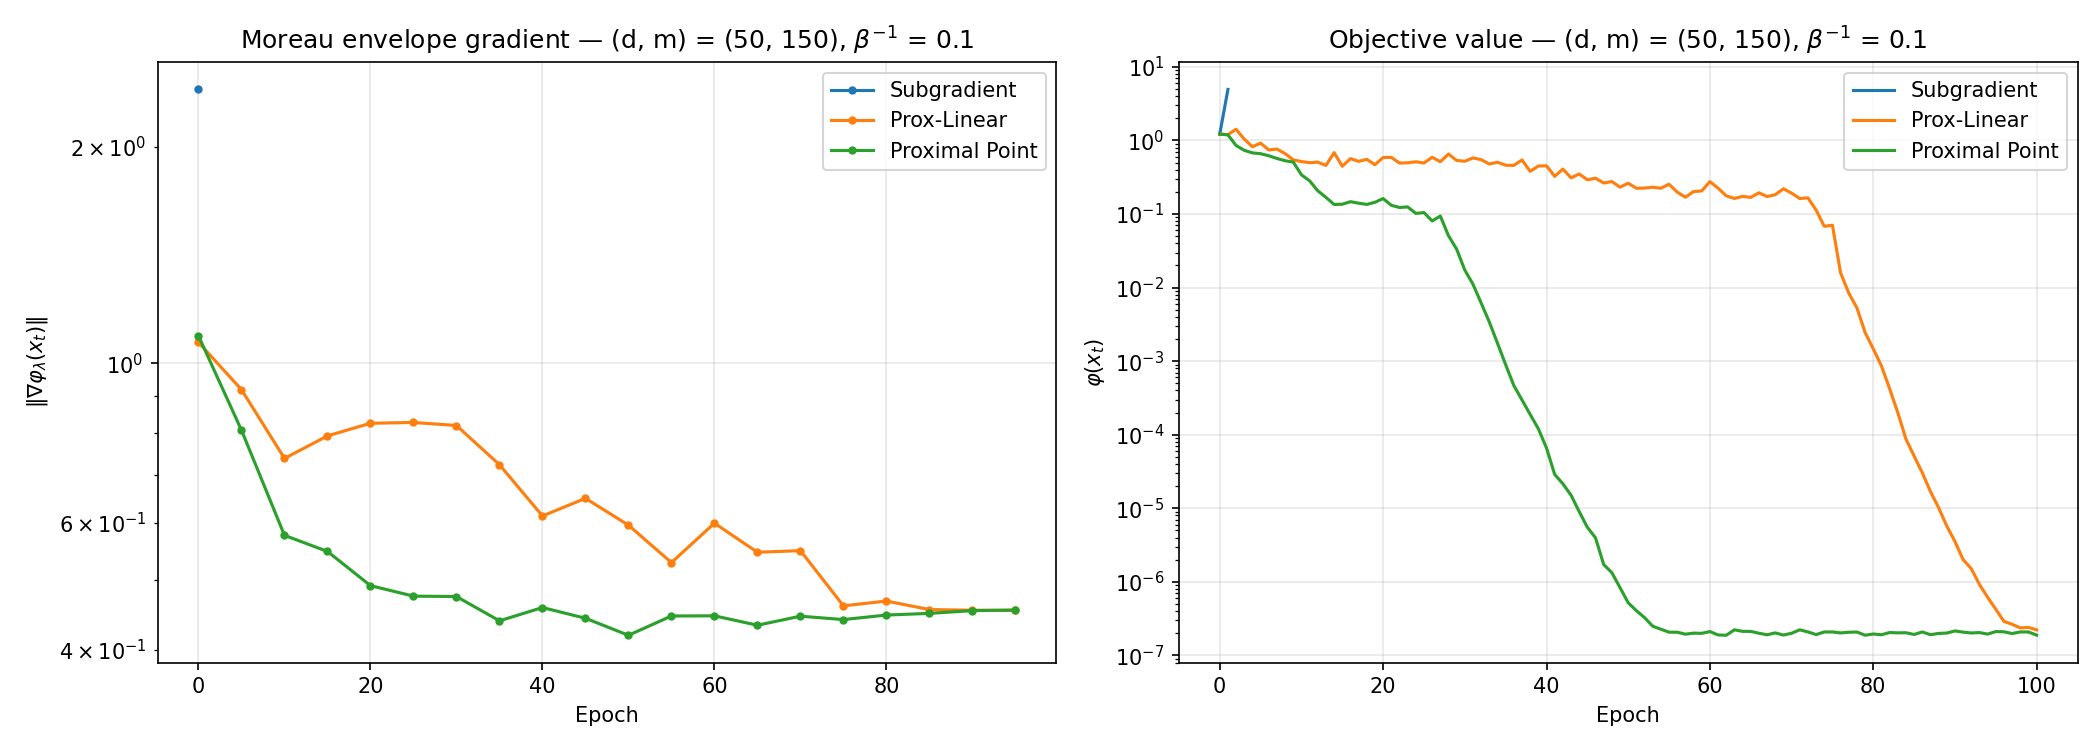
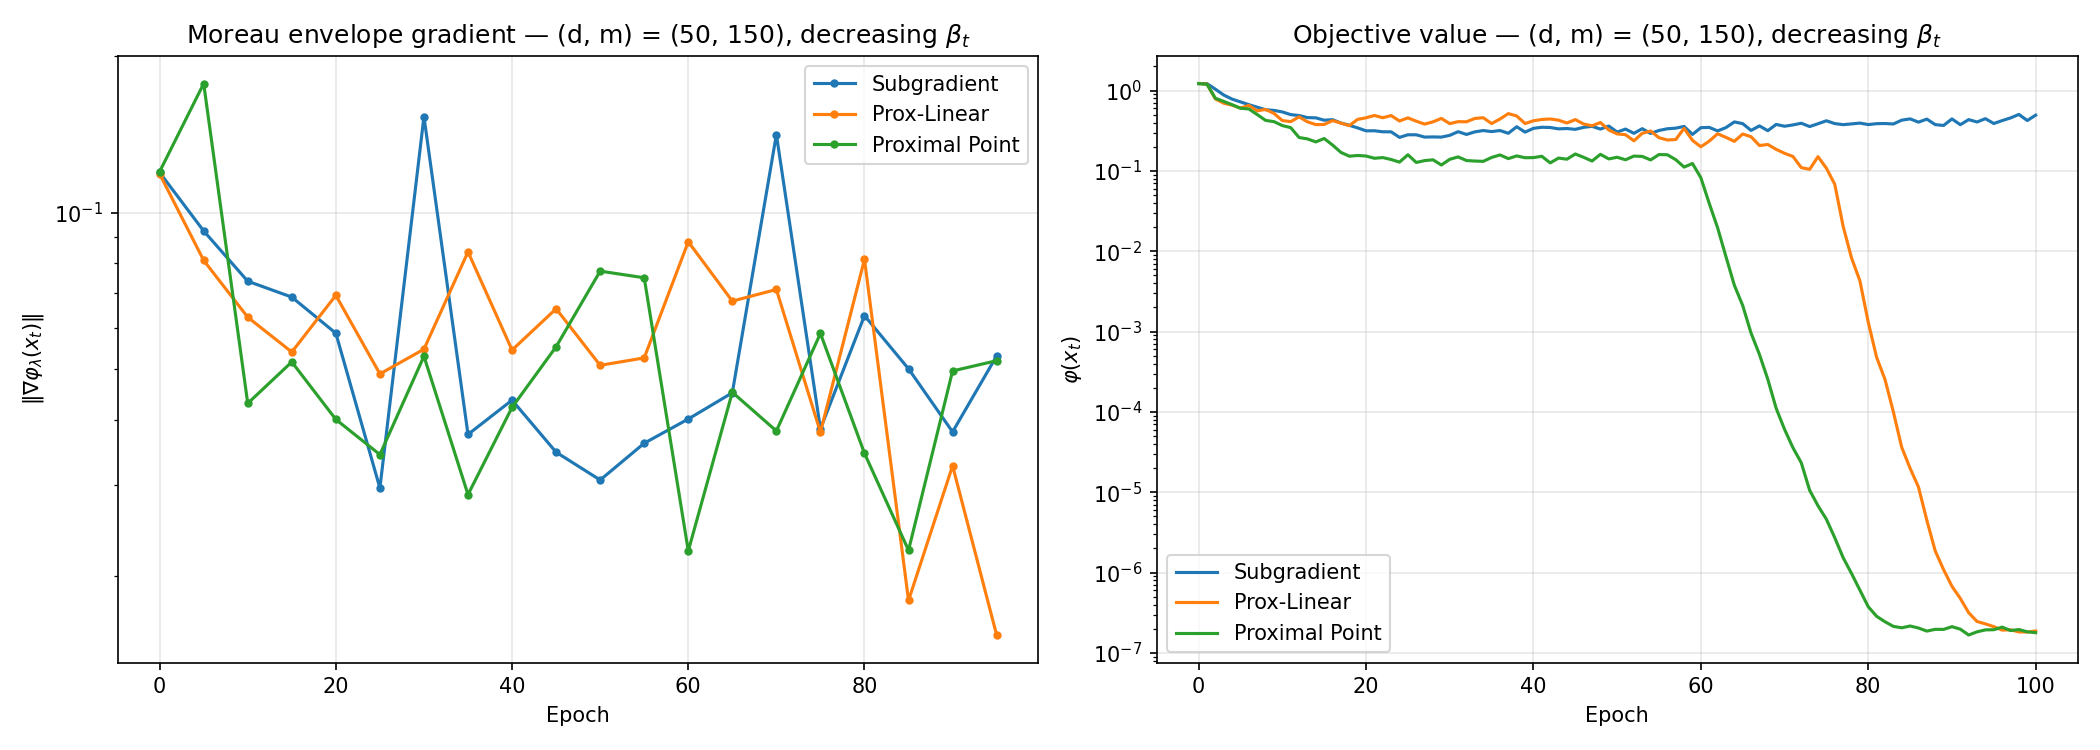
feat: decreasing beta for moreau convergence

diff --git a/experiments/moreau_convergence.py b/experiments/moreau_convergence.py
@@ -80,11 +80,21 @@ METHOD_CLASSES = {
     "Proximal Point": ProximalPointPhaseRetrieval,
 }
 
+# Per-method multipliers for beta_0.  Subgradient uses a rough model and
+# benefits from stronger regularization; Proximal Point uses the exact
+# objective and can afford a smaller beta (larger steps).
+METHOD_BETA_MULTIPLIERS = {
+    "Subgradient": 20.0,
+    "Prox-Linear": 1.0,
+    "Proximal Point": 0.5,
+}
+
 
 def _worker(method_name, data, d, beta_0, rho, n_epochs, m, moreau_epoch_interval, seed):
     """Top-level worker for multiprocessing."""
     prob = METHOD_CLASSES[method_name](rho=rho)
-    beta = make_decreasing_beta(beta_0, rho, m)
+    method_beta_0 = beta_0 * METHOD_BETA_MULTIPLIERS[method_name]
+    beta = make_decreasing_beta(method_beta_0, rho, m)
     return run_single(prob, data, d, beta, n_epochs, m, moreau_epoch_interval, seed)
 
 
@@ -103,11 +113,13 @@ def run_moreau_experiment(
     print(
         f"  {n_epochs} epochs, Moreau every {moreau_epoch_interval} epochs, {n_rounds} rounds"
     )
+    for name, mult in METHOD_BETA_MULTIPLIERS.items():
+        print(f"    {name}: β₀ = {1.0 / beta_inv * mult:.1f}")
     print(f"{'='*60}")
 
     data, true_x = generate_phase_retrieval_data(d, m, seed=data_seed)
     beta_0 = 1.0 / beta_inv
-    rho = 2.0  # must match the rho used in problem construction
+    rho = 0.05  # must match the rho used in problem construction
 
     # Build tasks: (method_name, round)
     tasks = []
@@ -180,8 +192,7 @@ def plot_moreau_convergence(results, d, m, beta_inv, save_dir):
     ax1.set_xlabel("Epoch")
     ax1.set_ylabel(r"$\|\nabla \varphi_\lambda(x_t)\|$")
     ax1.set_title(
-        f"Moreau envelope gradient — (d, m) = ({d}, {m}), "
-        r"$\beta^{-1}$" + f" = {beta_inv}"
+        f"Moreau envelope gradient — (d, m) = ({d}, {m}), decreasing " r"$\beta_t$"
     )
     ax1.set_yscale("log")
     ax1.legend()
@@ -194,7 +205,7 @@ def plot_moreau_convergence(results, d, m, beta_inv, save_dir):
     ax2.set_xlabel("Epoch")
     ax2.set_ylabel(r"$\varphi(x_t)$")
     ax2.set_title(
-        f"Objective value — (d, m) = ({d}, {m}), " r"$\beta^{-1}$" + f" = {beta_inv}"
+        f"Objective value — (d, m) = ({d}, {m}), decreasing " r"$\beta_t$"
     )
     ax2.set_yscale("log")
     ax2.legend()
@@ -212,9 +223,9 @@ def main():
     save_dir = os.path.join(os.path.dirname(__file__), "..", "deliverables", "figures")
 
     configs = [
-        {"d": 10, "m": 30, "beta_inv": 0.1},
-        {"d": 50, "m": 150, "beta_inv": 0.1},
-        {"d": 100, "m": 300, "beta_inv": 0.1},
+        {"d": 10, "m": 30, "beta_inv": 0.01},
+        {"d": 50, "m": 150, "beta_inv": 0.01},
+        {"d": 100, "m": 300, "beta_inv": 0.01},
     ]
 
     for cfg in configs: